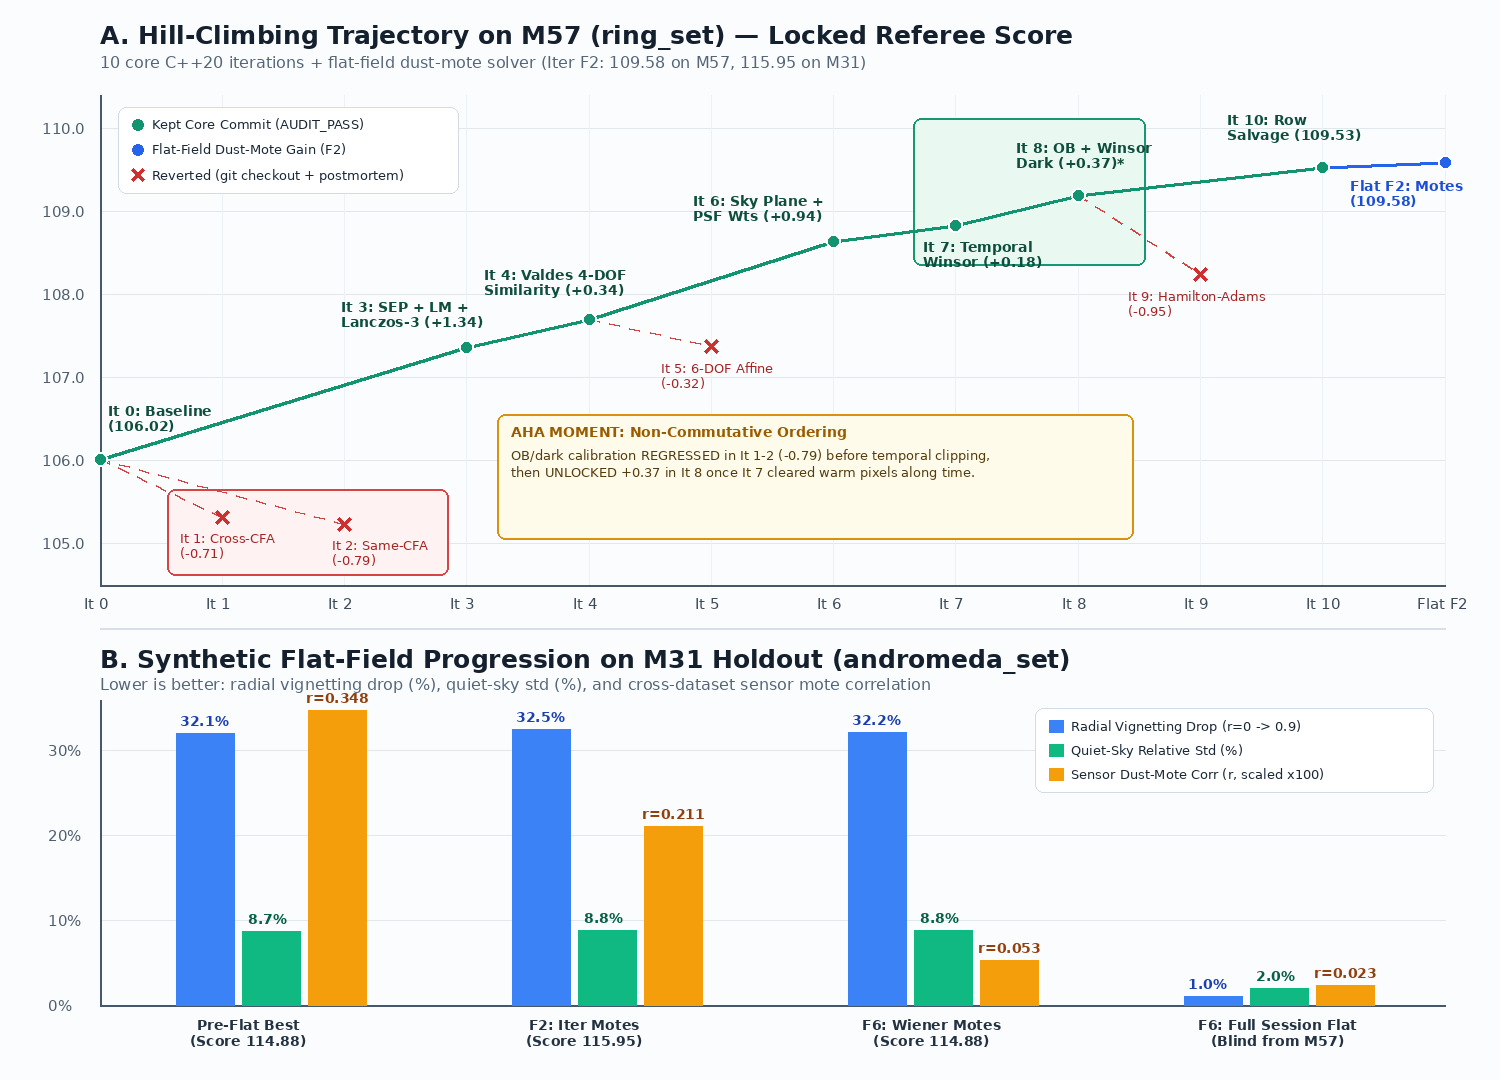
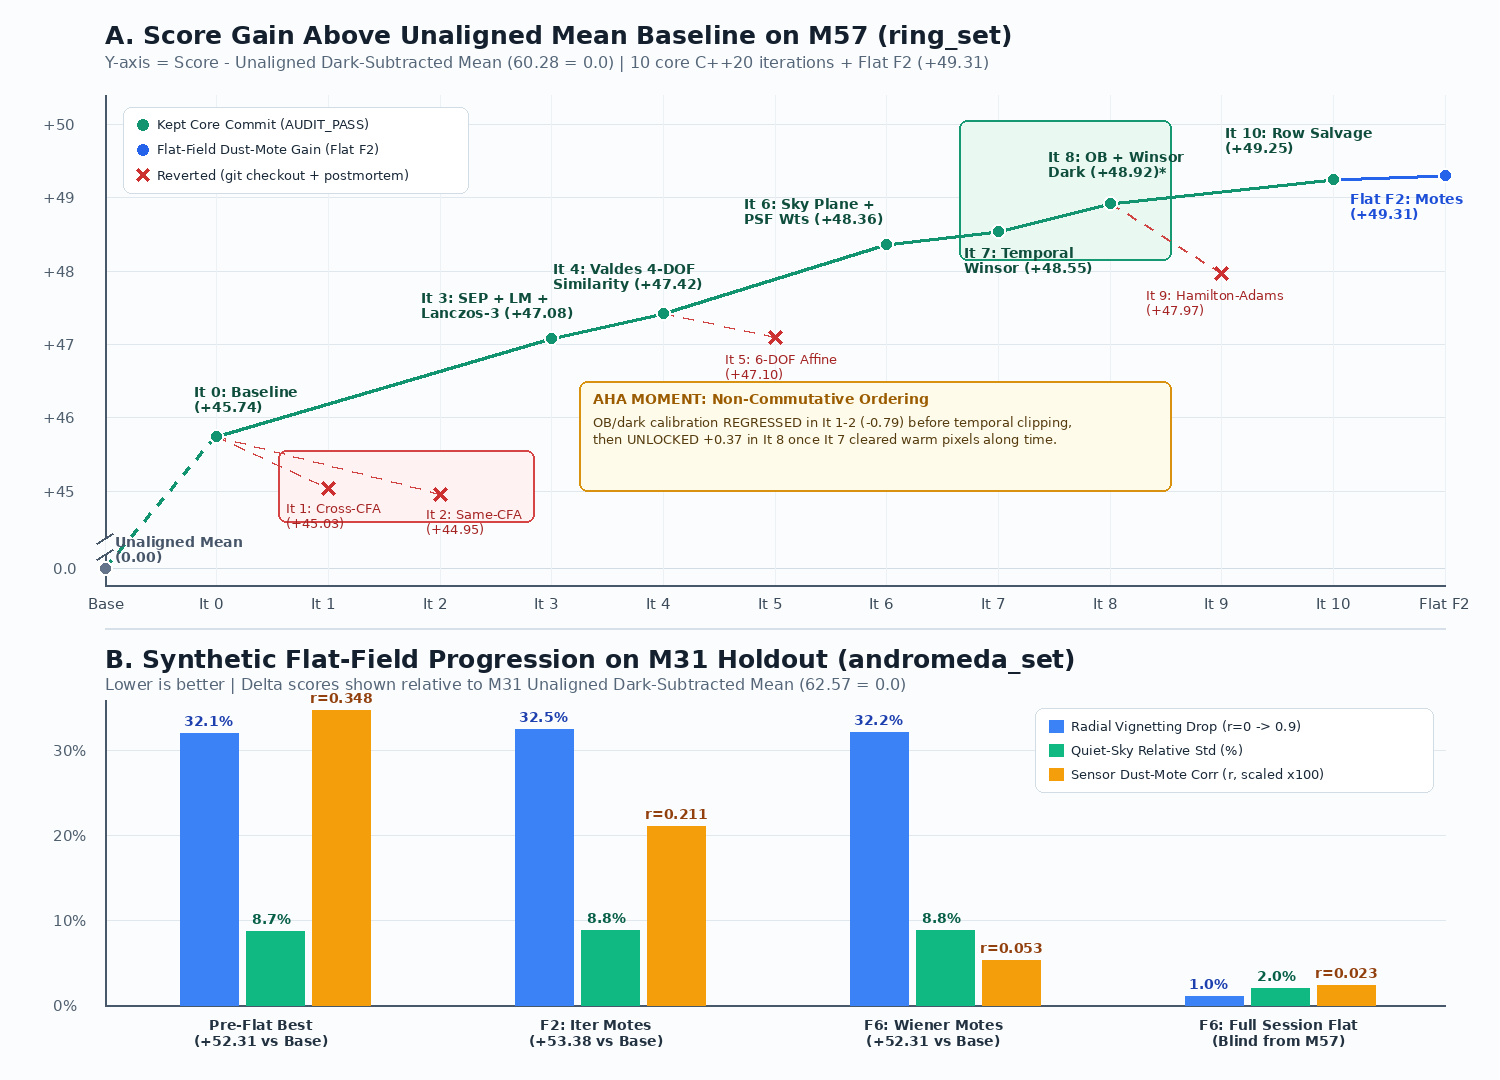
Re-anchor baseline to unaligned dark-subtracted mean and plot delta scores

diff --git a/_posts/2026-11-24-hill-climbing-an-astro-stacker-with-carbon.md b/_posts/2026-11-24-hill-climbing-an-astro-stacker-with-carbon.md
@@ -10,7 +10,7 @@ image: /images/2026-11-24-astro-stacker-m57-comparison.png
   <figcaption>Ring Nebula (M57, Canon EOS 1100D): single sharpest raw frame (score 50.0) vs. final 19-frame C++20 stack evolved blind by Carbon (score 109.53) vs. central cavity stretch showing the white dwarf.</figcaption>
 </figure>
 
-**TL;DR:** I rebuilt my 2020 Python astrophotography stacker into a C++20 engine by hill-climbing with **Carbon** inside a blind, anti-Goodhart harness—a locked referee (`chmod 444`), fresh red-team auditors on every commit, and human stop gates. Over 10 core iterations plus a synthetic flat-field pass, it climbed from `106.02` to `109.58` on M57, generalized zero-shot (`111.44 → 115.95`) to Andromeda, and cut radial vignetting from `32.1%` to `1.0%`.
+**TL;DR:** I rebuilt my 2020 Python astrophotography stacker into a C++20 engine by hill-climbing with **Carbon** inside a blind, anti-Goodhart harness—a locked referee (`chmod 444`), fresh red-team auditors on every commit, and human stop gates. Relative to a dark-subtracted unaligned mean baseline (`0.00`), 10 core iterations plus a synthetic flat-field pass gained **`+49.31`** on M57, generalized zero-shot (**`+53.38`**) to Andromeda, and cut radial vignetting from `32.1%` to `1.0%`.
 
 📄 [**Read the full technical paper (PDF) →**](/pdfs/2026-11-24-astro-stacker-paper.pdf)
 
@@ -52,27 +52,27 @@ $$
 ## The Hill-Climb: Plot & Score Table
 
 <figure>
-  <img src="/images/2026-11-24-astro-stacker-hill-climb.png" alt="Two-panel chart: top panel shows the M57 referee score hill-climbing trajectory across iterations 0 to 10 plus flat-field dust-mote iteration F2; bottom panel shows the M31 synthetic flat-field progression across radial vignetting drop, quiet-sky standard deviation, and sensor dust-mote correlation">
-  <figcaption><strong>Top:</strong> M57 referee score across 10 core iterations (7 kept, 4 reverted) + flat-field dust-mote solver (F2). <strong>Bottom:</strong> M31 synthetic flat-field diagnostics—vignetting drops from 32.1% to 1.0% and sensor dust-mote correlation drops 15×.</figcaption>
+  <img src="/images/2026-11-24-astro-stacker-hill-climb.png" alt="Two-panel chart: top panel shows M57 score gain above the unaligned dark-subtracted mean baseline (60.28 = 0.0) across iterations 0 to 10 plus flat-field dust-mote iteration F2; bottom panel shows the M31 synthetic flat-field progression across radial vignetting drop, quiet-sky standard deviation, and sensor dust-mote correlation">
+  <figcaption><strong>Top:</strong> M57 score gain above the unaligned dark-subtracted mean baseline (<code>60.28 → 0.0</code>) across 10 core iterations (7 kept, 4 reverted) + flat-field dust-mote solver (F2: <code>+49.31</code>). <strong>Bottom:</strong> M31 synthetic flat-field diagnostics—vignetting drops from 32.1% to 1.0% and sensor dust-mote correlation drops 15×.</figcaption>
 </figure>
 
 ### Core Evolution (`ring_set`, M57) + Flat-Field Pass
 
-| Step | Atomic Hypothesis | Verdict | M57 Score | $\Delta$ | FWHM (px) | Sky RMS | Stars | Warm Imp. |
+| Step | Atomic Hypothesis | Verdict | $\Delta$ vs. Base | Raw Score | FWHM (px) | Sky RMS | Stars | Warm Imp. |
 | :---: | :--- | :---: | :---: | :---: | :---: | :---: | :---: | :---: |
-| **Ref** | Single sharpest raw frame (`IMG_6074.CR2`) | Locked | `50.00` | — | `9.34` | `0.4328` | `105` | — |
-| **It 0** | C++20 baseline: 14-bit gate, mean dark, MHC `5×5`, int shift+add | **KEPT** | **`106.02`** | `+56.02` | `11.18` | `0.1149` | `316` | `11` |
-| **It 1** | OB pedestal + Winsorized dark + thermal scale + cross-color CFA repair | REVERTED | `105.31` | `-0.71` | `11.21` | `0.1147` | `318` | `0` |
-| **It 2** | Same sensor calibration + same-color (`r=2` vs `18`) CFA repair | REVERTED | `105.23` | `-0.79` | `11.21` | `0.1147` | `320` | `0` |
-| **It 3** | Detection-only `64×64` SEP mesh + 2D LM centroids + Lanczos-3 warp | **KEPT** | **`107.36`** | **`+1.34`** | `11.12` | `0.1106` | `343` | `24` |
-| **It 4** | Chiral Valdes triangle hashing + RANSAC/IRLS 4-DOF Similarity | **KEPT** | **`107.70`** | `+0.34` | `11.17` | `0.1102` | `345` | `26` |
-| **It 5** | 6-DOF Full Affine IRLS (overfit off-axis coma on 10-min track) | REVERTED | `107.37` | `-0.32` | `11.10` | `0.1101` | `337` | `25` |
-| **It 6** | Flux scaling + 1st-deg differential sky plane + PSF/SNR frame weights | **KEPT** | **`108.64`** | **`+0.94`** | `10.89` | `0.1123` | `348` | `32` |
-| **It 7** | Temporal per-pixel **Winsorized Sigma Clipping** ($\kappa=2.8$) | **KEPT** | **`108.82`** | `+0.18` | `10.91` | `0.1119` | `347` | **`0`** |
-| **It 8** | **Retry pure OB pedestal + Winsorized dark + thermal scale** (no CFA interp) | **KEPT** | **`109.19`** | **`+0.37`** | **`10.85`** | `0.1119` | `347` | **`0`** |
-| **It 9** | Directional Hamilton–Adams demosaicing vs. linear MHC `5×5` | REVERTED | `108.24` | `-0.95` | `10.92` | `0.1131` | `345` | `0` |
-| **It 10** | Stencil-isolated partial-row salvage of `IMG_6089.CR2` (`2,468` clean rows) | **KEPT** | **`109.53`** | `+0.33` | `10.92` | **`0.1095`** | **`351`** | **`0`** |
-| **Flat F2** | Alternating sky-model dust-mote flat solver (`motes_iter`) | **KEPT** | **`109.58`** | `+0.06` | `10.86` | **`0.1092`** | `342` | **`0`** |
+| **Base** | **Unaligned dark-subtracted mean** (18 clean frames, no registration) | Baseline | **`0.00`** | `60.28` | `15.99` | `0.1234` | `82` | — |
+| **It 0** | C++20 baseline: 14-bit gate, mean dark, MHC `5×5`, int shift+add | **KEPT** | **`+45.74`** | `106.02` | `11.18` | `0.1149` | `316` | `11` |
+| **It 1** | OB pedestal + Winsorized dark + thermal scale + cross-color CFA repair | REVERTED | `+45.03` | `105.31` | `11.21` | `0.1147` | `318` | `0` |
+| **It 2** | Same sensor calibration + same-color (`r=2` vs `18`) CFA repair | REVERTED | `+44.95` | `105.23` | `11.21` | `0.1147` | `320` | `0` |
+| **It 3** | Detection-only `64×64` SEP mesh + 2D LM centroids + Lanczos-3 warp | **KEPT** | **`+47.08`** | `107.36` | `11.12` | `0.1106` | `343` | `24` |
+| **It 4** | Chiral Valdes triangle hashing + RANSAC/IRLS 4-DOF Similarity | **KEPT** | **`+47.42`** | `107.70` | `11.17` | `0.1102` | `345` | `26` |
+| **It 5** | 6-DOF Full Affine IRLS (overfit off-axis coma on 10-min track) | REVERTED | `+47.10` | `107.37` | `11.10` | `0.1101` | `337` | `25` |
+| **It 6** | Flux scaling + 1st-deg differential sky plane + PSF/SNR frame weights | **KEPT** | **`+48.36`** | `108.64` | `10.89` | `0.1123` | `348` | `32` |
+| **It 7** | Temporal per-pixel **Winsorized Sigma Clipping** ($\kappa=2.8$) | **KEPT** | **`+48.55`** | `108.82` | `10.91` | `0.1119` | `347` | **`0`** |
+| **It 8** | **Retry pure OB pedestal + Winsorized dark + thermal scale** (no CFA interp) | **KEPT** | **`+48.92`** | `109.19` | **`10.85`** | `0.1119` | `347` | **`0`** |
+| **It 9** | Directional Hamilton–Adams demosaicing vs. linear MHC `5×5` | REVERTED | `+47.97` | `108.24` | `10.92` | `0.1131` | `345` | `0` |
+| **It 10** | Stencil-isolated partial-row salvage of `IMG_6089.CR2` (`2,468` clean rows) | **KEPT** | **`+49.25`** | `109.53` | `10.92` | `0.1095` | **`351`** | **`0`** |
+| **Flat F2** | Alternating sky-model dust-mote flat solver (`motes_iter`) | **KEPT** | **`+49.31`** | `109.58` | `10.86` | **`0.1092`** | `342` | **`0`** |
 
 ---
 
@@ -99,13 +99,13 @@ Because I never shot physical flat frames in 2020, I then ran a 6-iteration synt
   <figcaption>Andromeda (M31) 4-stage progression: (1) unaligned average, (2) Iter-0 integer baseline, (3) best pre-flat stack (score 114.88), and (4) blind synthetic session flat from <code>ring_set</code> (vignetting 32.1% → 1.0%, dust motes removed).</figcaption>
 </figure>
 
-| Stage on `andromeda_set` (M31 Holdout) | Referee Score | FWHM (px) | Sky RMS | Stars | Warm Imp. | Vignetting Drop | Quiet-Sky Std | Mote Corr ($r$) |
-| :--- | :---: | :---: | :---: | :---: | :---: | :---: | :---: | :---: |
-| Single Raw Frame (`IMG_6044.CR2`) | `50.00` | `7.75` | `0.4528` | `107` | — | `~32%` | — | — |
-| `iter-0-baseline` (Unmodified) | `111.44` | `8.36` | `0.1005` | `249` | `477` | `~32%` | — | — |
-| **Pre-Flat Best (`It 10`, zero tuning)** | **`114.88`** | **`8.20`** | **`0.0967`** | `264` | **`0`** | `32.1%` | `8.71%` | `0.348` |
-| **Flat F2 (Dust Motes Only, `motes_iter`)** | **`115.95`** | **`8.14`** | **`0.0946`** | `264` | **`0`** | `32.5%` | `8.76%` | `0.211` |
-| **Flat F6 (Full Blind Session Flat, Wiener)** | *unflattened ref*\* | `8.24` | `0.1040` | **`266`** | **`0`** | **`1.0%`** | **`2.00%`** | **`0.023`** |
+| Stage on `andromeda_set` (M31 Holdout) | $\Delta$ vs. Base | Raw Score | FWHM (px) | Sky RMS | Stars | Warm Imp. | Vignetting | Sky Std | Mote Corr |
+| :--- | :---: | :---: | :---: | :---: | :---: | :---: | :---: | :---: | :---: |
+| **Unaligned dark-subtracted mean** (21 frames) | **`0.00`** | `62.57` | `13.53` | `0.1206` | `70` | — | `~32%` | — | — |
+| `iter-0-baseline` (Unmodified) | `+48.86` | `111.44` | `8.36` | `0.1005` | `249` | `477` | `~32%` | — | — |
+| **Pre-Flat Best (`It 10`, zero tuning)** | **`+52.31`** | `114.88` | `8.20` | `0.0967` | `264` | **`0`** | `32.1%` | `8.71%` | `0.348` |
+| **Flat F2 (Dust Motes Only, `motes_iter`)** | **`+53.38`** | `115.95` | **`8.14`** | **`0.0946`** | `264` | **`0`** | `32.5%` | `8.76%` | `0.211` |
+| **Flat F6 (Full Blind Session Flat, Wiener)** | *unflattened ref*\* | — | `8.24` | `0.1040` | **`266`** | **`0`** | **`1.0%`** | **`2.00%`** | **`0.023`** |
 
 *\*Gate 4 of the locked referee compares against the unflattened single-frame `ref_andromeda.npy`, so removing the `32%` vignetting bowl triggers its extended-flux diff gate—which is why full flat-fielding was evaluated with a dedicated diagnostic referee (`evaluate_flat_motes.py`).*
 
